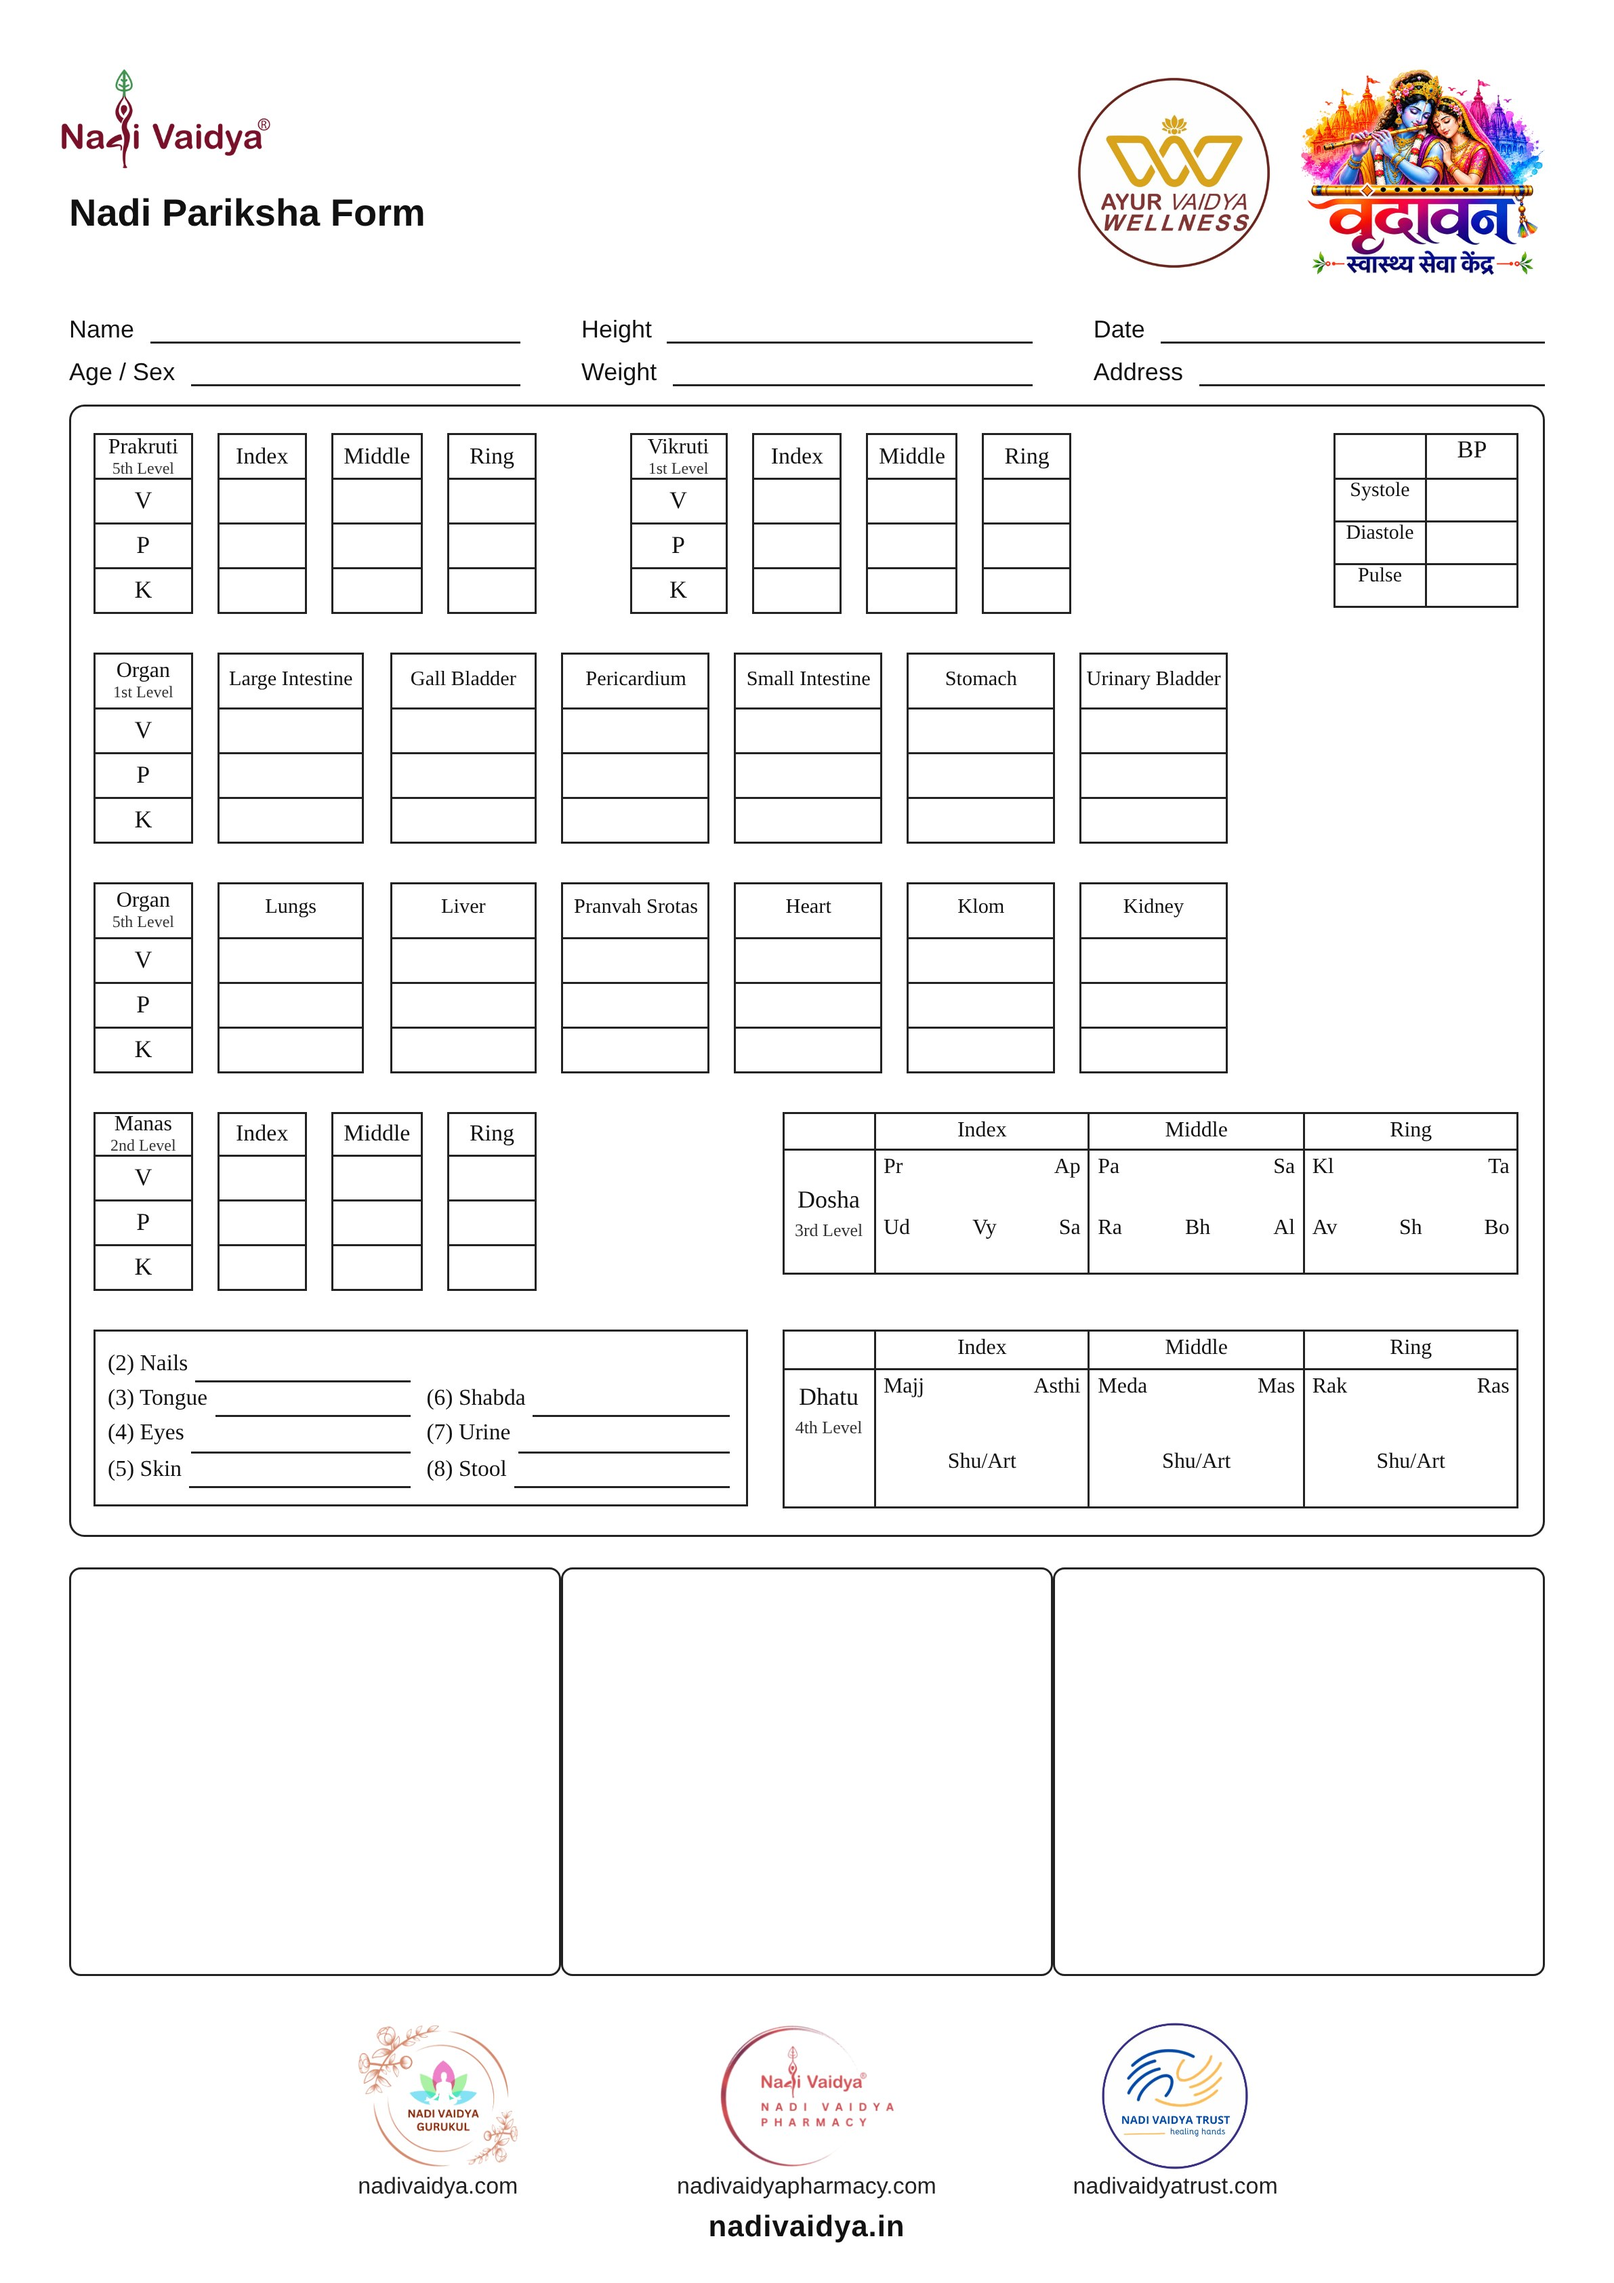
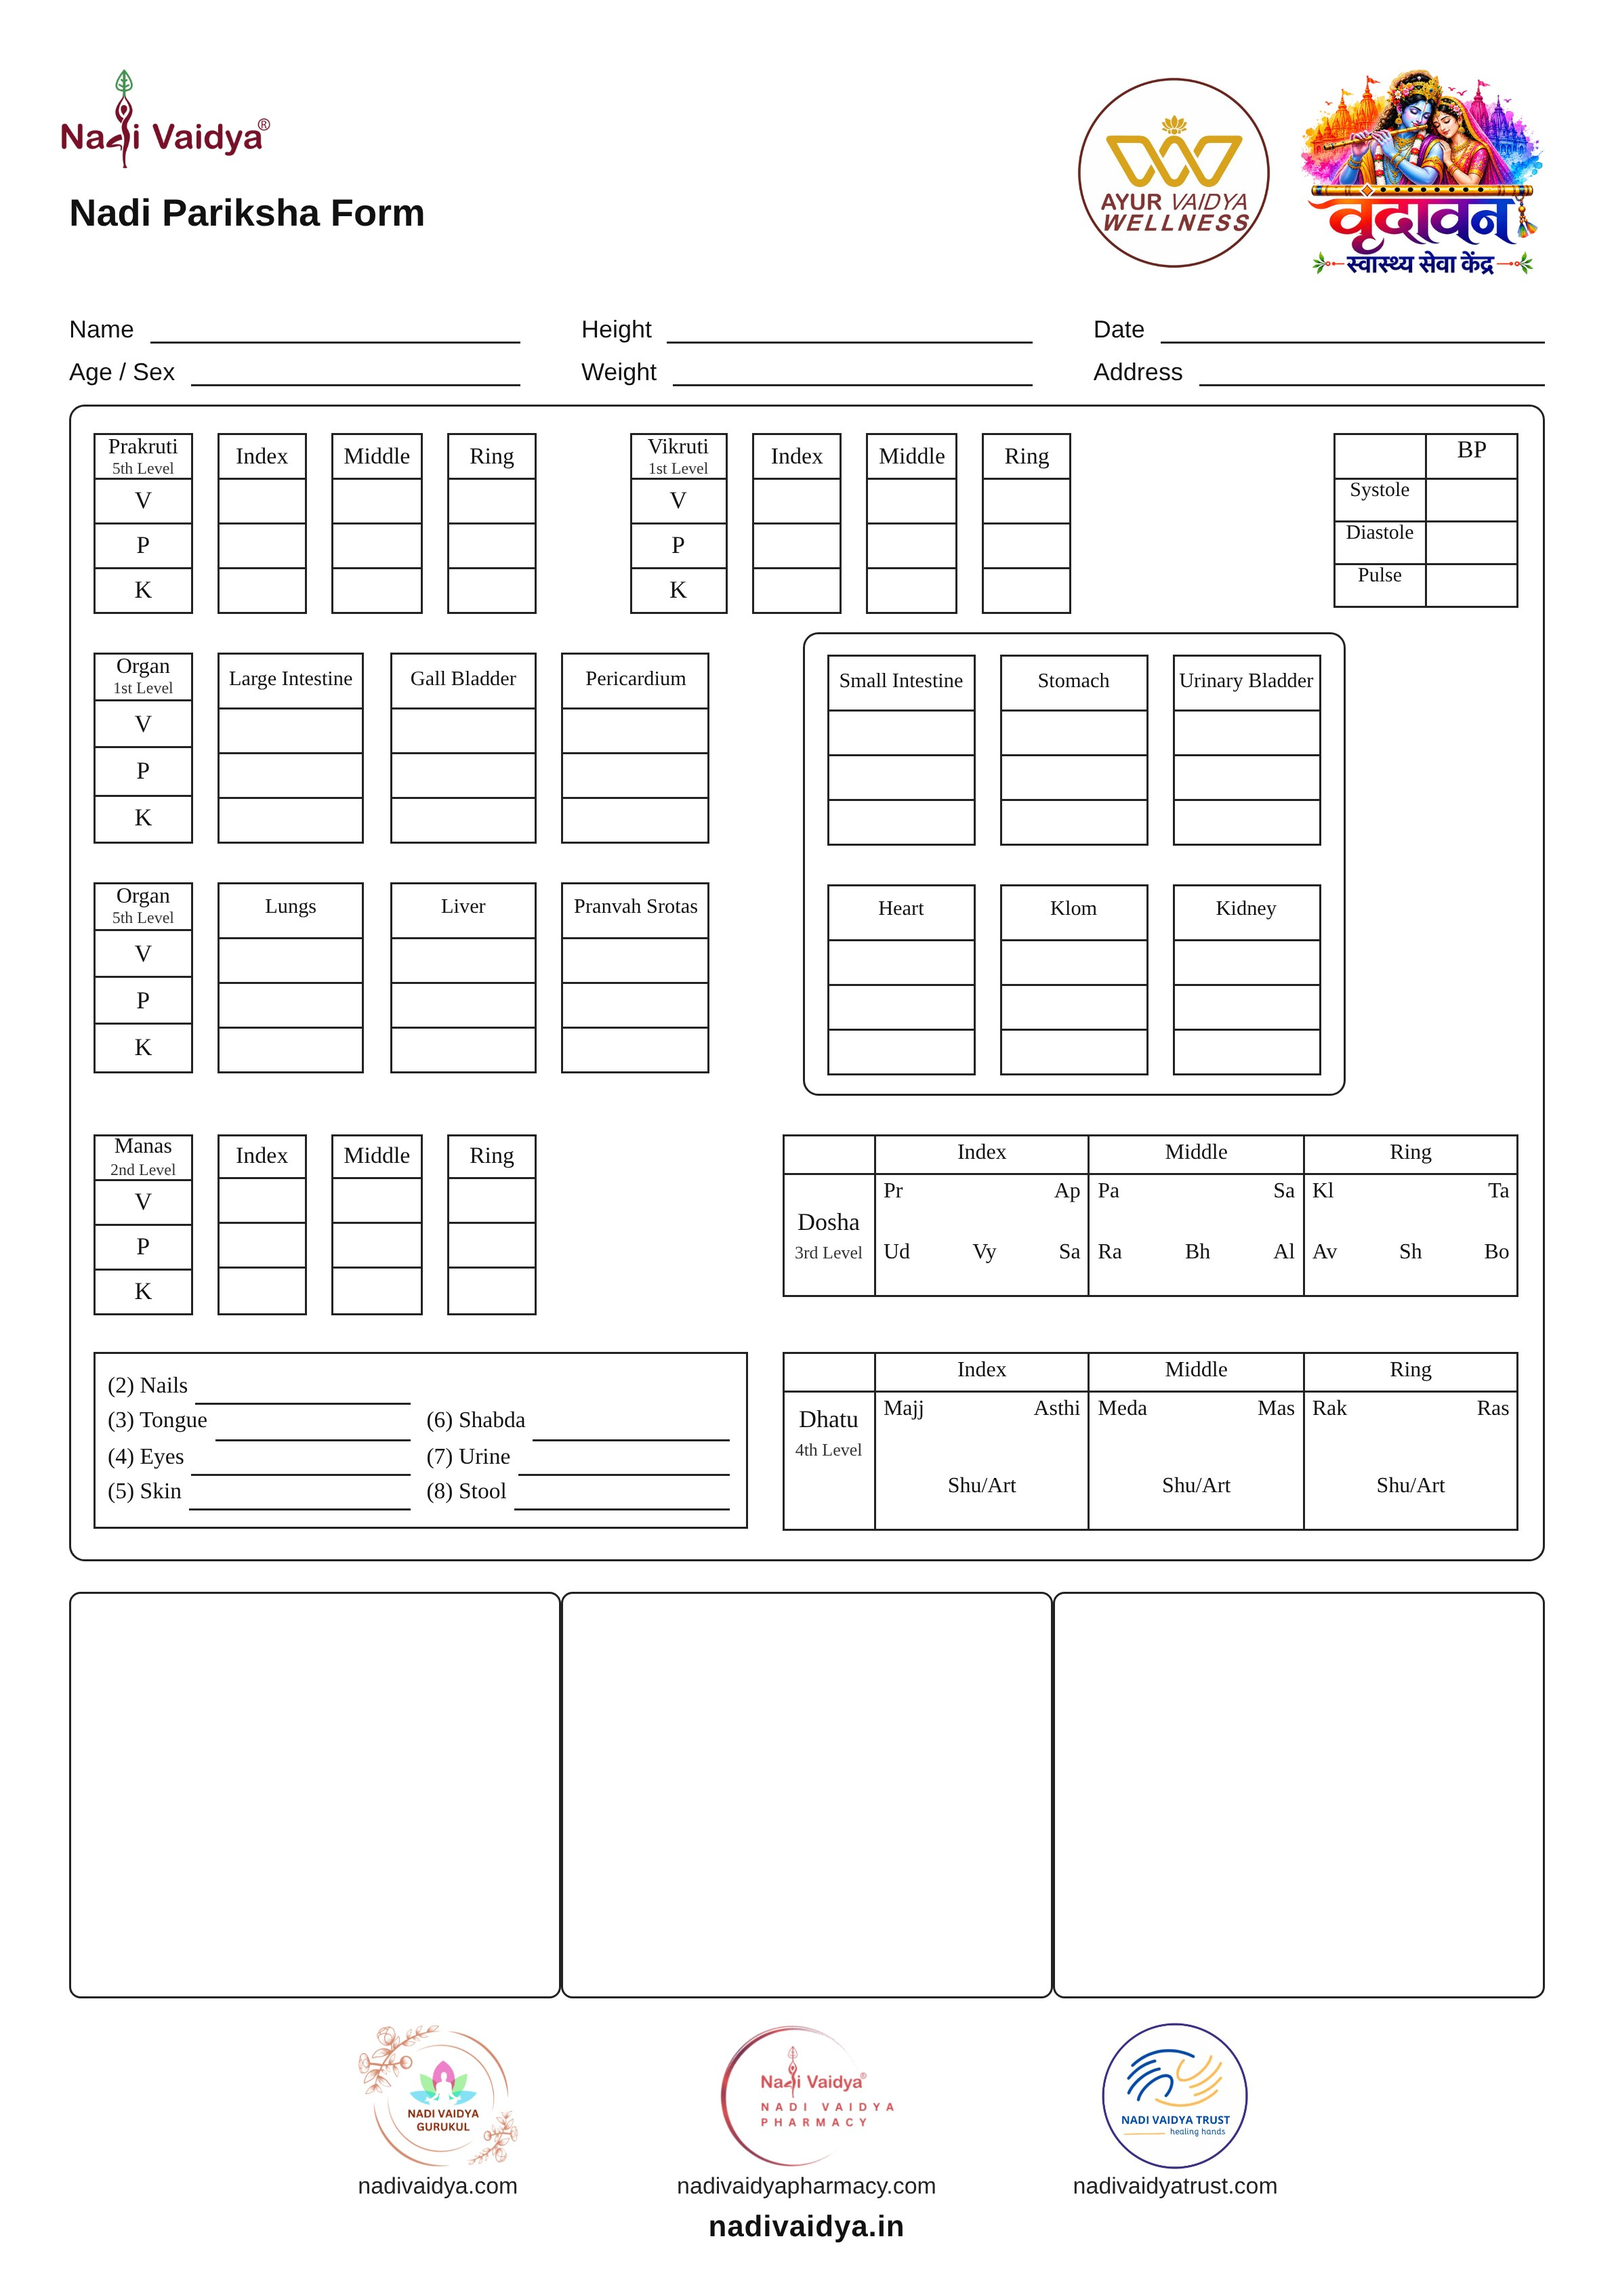
Nadi Pariksha form: Small Intestine/Stomach/Urinary Bladder + Heart/Klom/Kidney shifted right inside one outline
Claude-Session: https://claude.ai/code/session_01BLAFPTXhjRoQfXaUvU6rvF

diff --git a/docs/forms/nadi-pariksha-form-src/form.html b/docs/forms/nadi-pariksha-form-src/form.html
@@ -45,6 +45,9 @@ td{border:.3mm solid #222;font-size:8pt;text-align:center;vertical-align:top}
 small.lv{display:block;font-size:6pt;line-height:1;color:#333;margin-top:.3mm;white-space:nowrap}
 .lab td.n{line-height:1.05}
 .sub .lbl small.lv{font-size:6.5pt;margin-top:.8mm}
+.organs{display:flex;align-items:flex-start;margin-bottom:5mm}
+.org-left,.org-right{display:flex;flex-direction:column;gap:5mm}
+.org-right{margin-left:12mm;border:.35mm solid #222;border-radius:2mm;padding:2.5mm 3mm;margin-top:-2.5mm}
 </style></head><body><div class="page">
 
 <div class="head">
@@ -78,8 +81,10 @@ small.lv{display:block;font-size:6pt;line-height:1;color:#333;margin-top:.3mm;wh
  </div>
 
  <!-- row 2 & 3: Gati -->
- <div class="row"><div class="blk" id="g3"></div></div>
- <div class="row"><div class="blk" id="g4"></div></div>
+ <div class="organs">
+  <div class="org-left"><div class="blk" id="g3a"></div><div class="blk" id="g4a"></div></div>
+  <div class="org-right"><div class="blk" id="g3b"></div><div class="blk" id="g4b"></div></div>
+ </div>
 
  <!-- row 4: Manas + Dosha -->
  <div class="row two">
@@ -132,10 +137,11 @@ small.lv{display:block;font-size:6pt;line-height:1;color:#333;margin-top:.3mm;wh
 
 <script>
 function gati(id,num,cols,level){
-  const el=document.getElementById(id);
-  let h='<table class="lab"><tr><td class="n">Organ<small class="lv">'+level+' Level</small></td></tr><tr><td class="v">V</td></tr><tr><td class="v">P</td></tr><tr><td class="v">K</td></tr></table>';
-  for(const c of cols) h+='<table class="col org"><tr><td class="h">'+c+'</td></tr><tr><td></td></tr><tr><td></td></tr><tr><td></td></tr></table>';
-  el.innerHTML=h;
+  const col=c=>'<table class="col org"><tr><td class="h">'+c+'</td></tr><tr><td></td></tr><tr><td></td></tr><tr><td></td></tr></table>';
+  let a='<table class="lab"><tr><td class="n">Organ<small class="lv">'+level+' Level</small></td></tr><tr><td class="v">V</td></tr><tr><td class="v">P</td></tr><tr><td class="v">K</td></tr></table>';
+  a+=cols.slice(0,3).map(col).join('');
+  document.getElementById(id+'a').innerHTML=a;
+  document.getElementById(id+'b').innerHTML=cols.slice(3).map(col).join('');
 }
 gati('g3','3',['Large Intestine','Gall Bladder','Pericardium','Small Intestine','Stomach','Urinary Bladder'],'1st');
 gati('g4','4',['Lungs','Liver','Pranvah Srotas','Heart','Klom','Kidney'],'5th');
